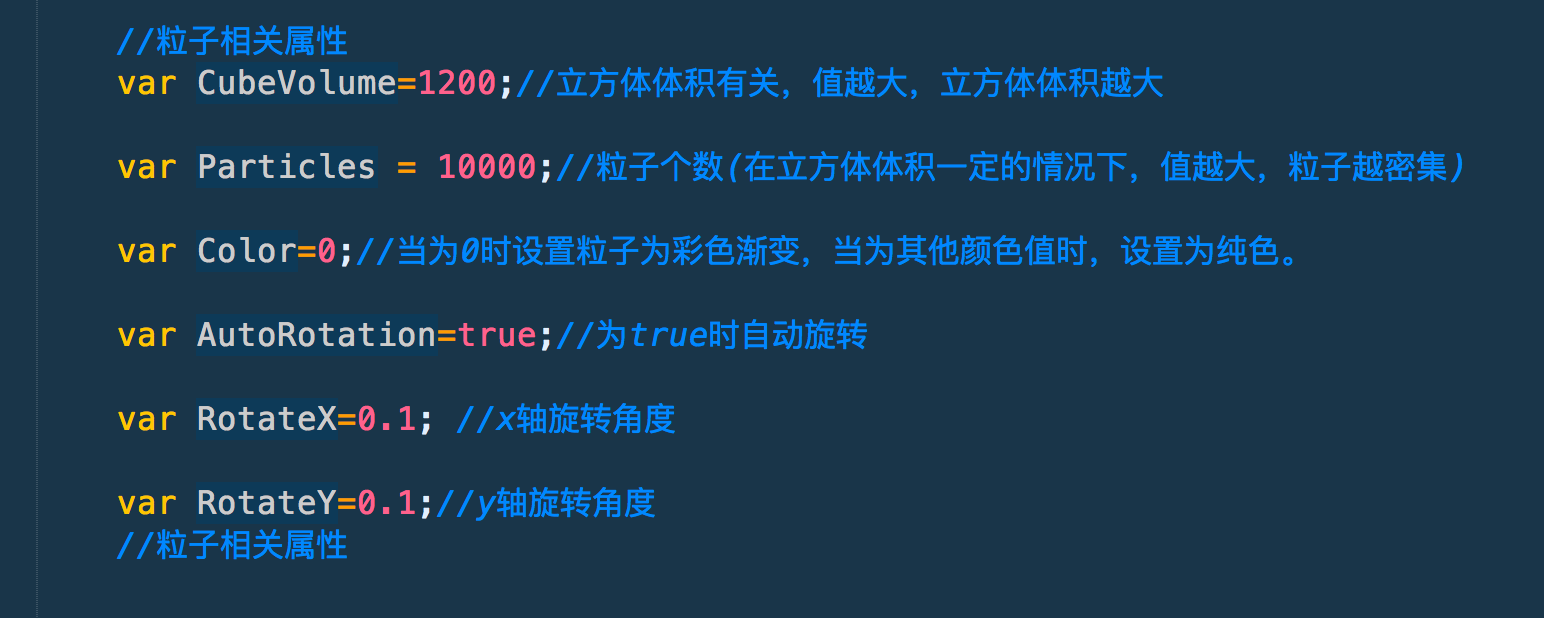
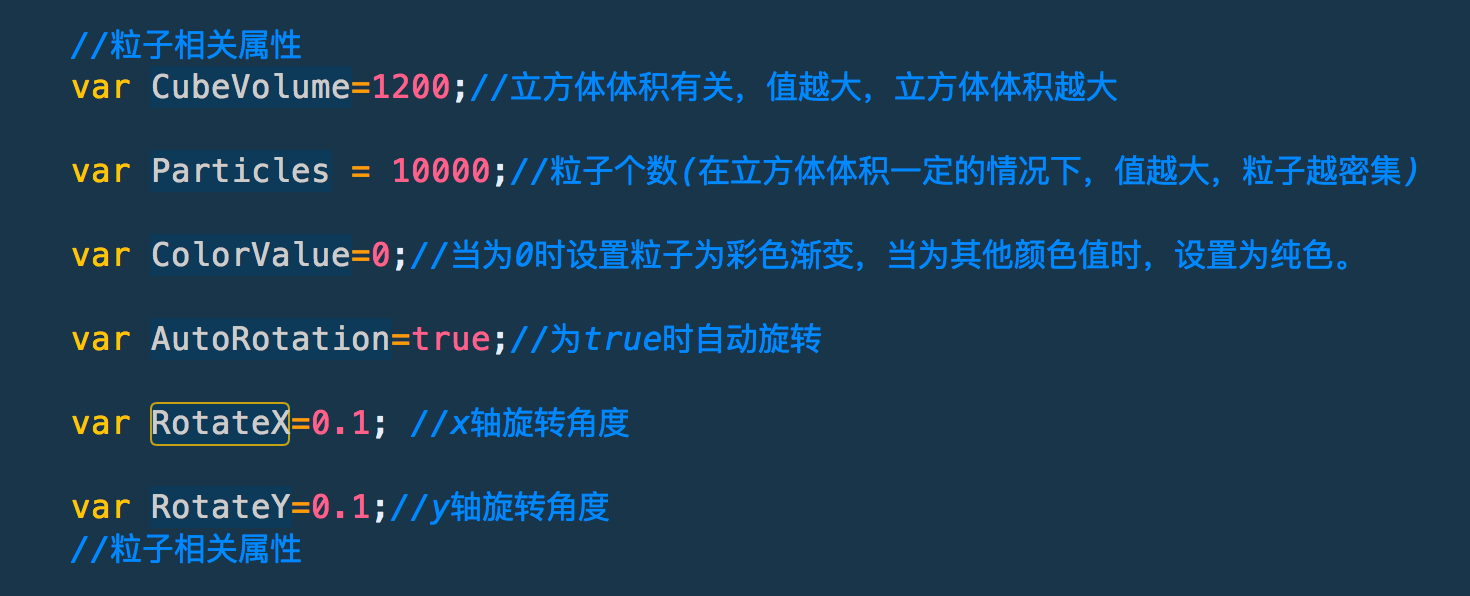
Rename Attribute Again

diff --git a/Particle_Point_MultipleVIews.html b/Particle_Point_MultipleVIews.html
@@ -37,7 +37,7 @@
 
 			var Particles = 10000;//粒子个数(在立方体体积一定的情况下，值越大，粒子越密集)
 
-			var Color=0;//当为0时设置粒子为彩色渐变，当为其他颜色值时，设置为纯色。
+			var ColorValue=0;//当为0时设置粒子为彩色渐变，当为其他颜色值时，设置为纯色。
 
 			var AutoRotation=true;//为true时自动旋转
 
@@ -153,19 +153,19 @@
 				var positions = [];
 				var colors = [];
 				var color = new THREE.Color();
-				var n = 1200, n2 = n/2; // particles spread in the cube
-				for ( var i = 0; i < particles; i ++ ) {
+
+				for ( var i = 0; i < Particles; i ++ ) {
 					// positions
-					var x = Math.random() * n - n2;
-					var y = Math.random() * n - n2;
-					var z = Math.random() * n - n2;
+					var x = Math.random() * CubeVolume - CubeVolume/2;
+					var y = Math.random() * CubeVolume - CubeVolume/2;
+					var z = Math.random() * CubeVolume - CubeVolume/2;
 					positions.push( x, y, z );
 
 					// colors
-					if(colorValue===0){
-						var vx = ( x / n ) + 1;
-						var vy = ( y / n ) + 1;
-						var vz = ( z / n ) + 1;
+					if(ColorValue===0){
+						var vx = ( x / CubeVolume ) + 1;
+						var vy = ( y / CubeVolume ) + 1;
+						var vz = ( z / CubeVolume ) + 1;
 
 						color.setRGB( vx, vy, vz );
 						colors.push( color.r, color.g, color.b );
@@ -238,7 +238,7 @@
 					//camera.aspect = width / height;
 					camera.updateProjectionMatrix();
 
-					if (isRotate){
+					if (AutoRotation){
 						var time = Date.now() * 0.001;
 						points.rotation.x = time * RotateX;
 						points.rotation.y = time * RotateY;
